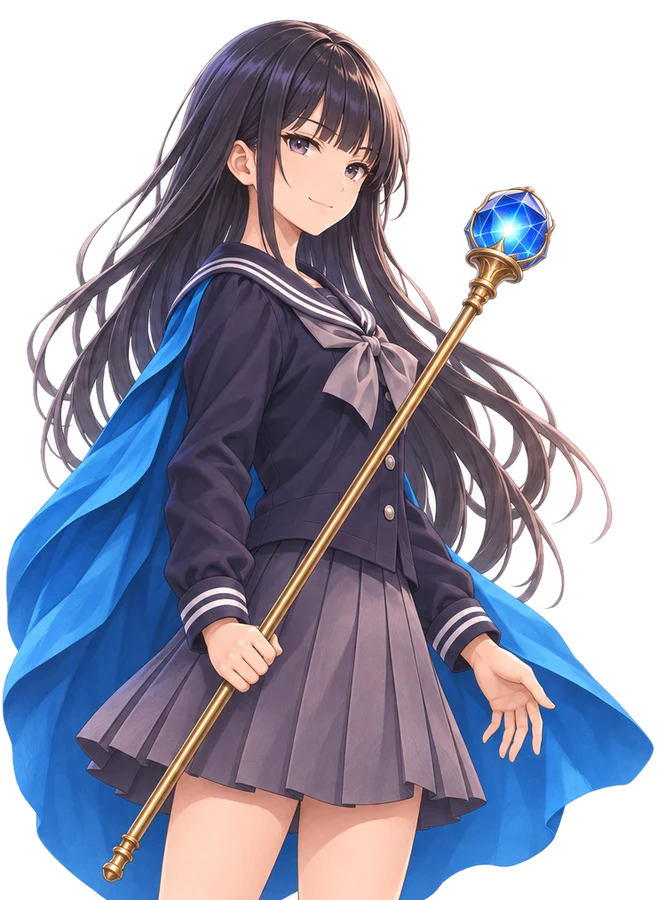
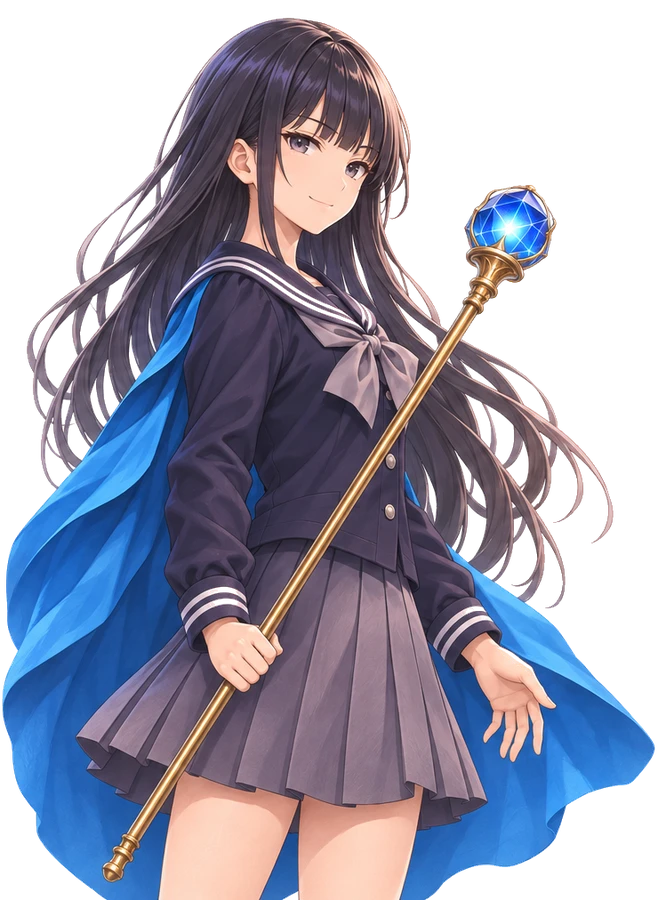
立绘重抠（头发缝白底、白边去色）；起手技能介绍卡
Claude-Session: https://claude.ai/code/session_015MetZpZfHySQWDEPDS41Tu

diff --git a/css/style.css b/css/style.css
@@ -826,3 +826,15 @@ svg.ped { position: absolute; left: 50%; bottom: 2px; transform: translateX(-50%
 .pnPick .pnSel { position: static !important; } .pnSel button { width: 64px; height: 64px; } .pnSel button canvas { height: 34px !important; }
 @media (orientation: portrait), (max-width: 760px) { .pnSel button { width: 54px; height: 54px; } }
 .pnR { gap: 10px; padding-top: 16px; } .pnHead { padding-bottom: 8px; } .pnSec { padding-top: 8px; }
+/* 起手技能介绍 */
+#prep .pnSec .wdesc { text-align: left; margin-top: 14px; }
+.skI { display: flex; gap: 16px; align-items: center; padding: 12px 16px; background: rgba(255, 255, 255, .45); border-radius: 10px; border: 1px solid rgba(150, 105, 45, .3); }
+.skIc > * { width: 64px !important; height: 64px !important; border-radius: 50%; box-shadow: 0 0 0 3px #e8a820; }
+.skIb { flex: 1; min-width: 0; } .skIt { display: flex; align-items: center; gap: 8px; } .skIt b { font-size: 22px; color: #4a2e12; font-family: "Songti SC", "STSong", "Noto Serif CJK SC", serif; }
+.skIt em { font-style: normal; font-size: 12px; padding: 1px 8px; border-radius: 9px; background: #e8d6ae; color: #6a4818; } .skIb p { margin: 4px 0 0; font-size: 16px; color: var(--pp-ink); }
+.skLv { list-style: none; margin: 10px 0 0; padding: 0; display: grid; grid-template-columns: repeat(3, 1fr); gap: 8px; }
+.skLv li { font-size: 14px; color: var(--pp-ink); padding: 6px 10px; background: rgba(255,255,255,.3); border-left: 3px solid #c49a52; } .skLv i { font-style: normal; font-weight: 700; color: #a8742a; margin-right: 6px; }
+@media (orientation: portrait), (max-width: 760px) { .skLv { grid-template-columns: 1fr; } .skIc > * { width: 48px !important; height: 48px !important; } .skIt b { font-size: 18px; } .skIb p { font-size: 14px; } }
+#prep .pnItem > div { flex-direction: row !important; padding: 6px 10px !important; gap: 8px !important; text-align: left; } #prep .pnItem .pi { width: 36px !important; height: 36px; flex: none; }
+#prep .pnItem > div { display: grid !important; grid-template-columns: 36px 1fr; grid-template-rows: auto auto; column-gap: 8px; } #prep .pnItem > div > :first-child { grid-row: 1 / 3; } #prep .pnItem b { font-size: 14px; } #prep .pnItem small { text-align: left; font-size: 12px; }
+.pnR { gap: 8px; } .pnHead #heroCv { flex-basis: 110px; width: 110px; height: 110px; } .pnWep button > :first-child { width: 68px !important; height: 68px !important; } .skI { padding: 8px 14px; } .skLv { margin-top: 8px; } .pnSec h4 { margin-bottom: 6px; }

diff --git a/js/ui.js b/js/ui.js
@@ -104,7 +104,9 @@
     // 起手兵器
     const ws = $('wSel'); ws.innerHTML = '';
     for (const [id, w] of Object.entries(DATA.weapons)) { const b = document.createElement('button'); b.className = id === P.weapon ? 'on' : ''; b.appendChild(iconCanvas(w.icon)); b.insertAdjacentHTML('beforeend', `<span>${w.name}</span>`); b.onclick = () => { P.weapon = id; store.set('weapon', id); heroSwing = .6; renderPrep(); }; ws.appendChild(b); }
-    const W = DATA.weapons[P.weapon]; $('wDesc').innerHTML = `<b class="wsk">起手招：${W.skill}</b>　${W.desc}<br><small style="color:#c8b890">吃「${DATA.attrs.find(a => a.id === W.type).name}」加成。之后的技能书什么系都会出，可以混着带。</small>`;
+    const W = DATA.weapons[P.weapon], SK0 = DATA.skills[P.weapon] || {}, AT = DATA.attrs.find(a => a.id === W.type);   // 11/22 起手技能介绍（铃兰式：上面选兵器，下面讲技能）
+    $('wDesc').innerHTML = `<div class="skI"><div class="skIc">${iconCanvas(W.icon).outerHTML}</div><div class="skIb"><div class="skIt"><b>${SK0.name || W.skill}</b><em>${SK0.dt === 'magic' ? '魔法' : '物理'}</em><em>吃「${AT.name}」</em></div><p>${SK0.desc || W.desc}</p></div></div>
+      <ul class="skLv">${['l3', 'l5', 'l7'].filter(k => SK0[k]).map(k => `<li><i>Lv${k.slice(1)}</i>${SK0[k]}</li>`).join('')}</ul>`;
     // 属性
     const c = DATA.calc(build()), left = DATA.attrFree - used(); $("aLeft").textContent = left ? `剩余 ${left} 点（可带进游戏）` : "剩余 0 点";
     const ar = $('aRows'); ar.innerHTML = '';

diff --git a/tools/pixel/cut_portraits.py b/tools/pixel/cut_portraits.py
@@ -1,0 +1,25 @@
+"""立绘抠图：art/src/portraits2.png（男左女右，白底）→ art/portrait/m|f.webp
+背景 = 外圈连通近白 + 被头发围住的大块近白（但金属高光、宝珠高光保留）；边缘按白度软透明并反推颜色去白边。"""
+from PIL import Image
+import numpy as np
+from scipy import ndimage as nd
+src = Image.open('art/src/portraits2.png').convert('RGBA')
+KEEP = {'f': [(573, 255, 55)], 'm': []}   # 保护圈（裁后坐标 x, y, r）：女主宝珠
+for k, (x0, x1) in {'m': (0, 667), 'f': (787, 1536)}.items():
+  a = np.array(src.crop((x0, 0, x1, 1024))).astype(float); rgb = a[..., :3]; mn = rgb.min(-1); sp = rgb.max(-1) - mn; H, W = mn.shape
+  w1 = (mn > 200) & (sp < 28); lab, n = nd.label(w1); edge = set(np.unique(np.r_[lab[0], lab[:, 0], lab[:, -1]])) - {0}; bg = np.isin(lab, list(edge))
+  w2 = (mn > 222) & (sp < 18); lab2, n2 = nd.label(w2); yy, xx = np.mgrid[:H, :W]
+  prot = np.zeros_like(mn, bool)
+  for (cx, cy, r) in KEEP[k]: prot |= (xx - cx) ** 2 + (yy - cy) ** 2 < r * r
+  for i in range(1, n2 + 1):
+    m = lab2 == i; s = m.sum()
+    if s < 60 or (m & prot).any(): continue
+    ring = nd.binary_dilation(m, iterations=3) & ~m
+    if k == 'm' and np.median(mn[ring]) > 135: continue          # 周围是浅灰金属 → 高光，保留
+    bg |= m
+  near = nd.binary_dilation(bg, iterations=4) & ~bg
+  t = np.clip((mn - 150) / 100, 0, 1) * (sp < 60); al = np.ones(mn.shape); al[bg] = 0; al[near] = 1 - t[near]
+  mm = (al > .02) & (al < 1); rgb[mm] = np.clip((rgb[mm] - 255 * (1 - al[mm, None])) / al[mm, None], 0, 255)
+  im = Image.fromarray(np.dstack([rgb, al * 255]).astype(np.uint8)); bb = im.getbbox(); im = im.crop((max(0, bb[0] - 20), max(0, bb[1] - 20), min(im.width, bb[2] + 20), im.height))
+  im = im.resize((round(im.width * 900 / im.height), 900), Image.LANCZOS); im.save(f'art/portrait/{k}.webp', quality=90)
+  b = Image.new('RGB', im.size, (40, 30, 20)); b.paste(im, (0, 0), im); b.save(f'/home/claude/t/chk_{k}_dark.png')
